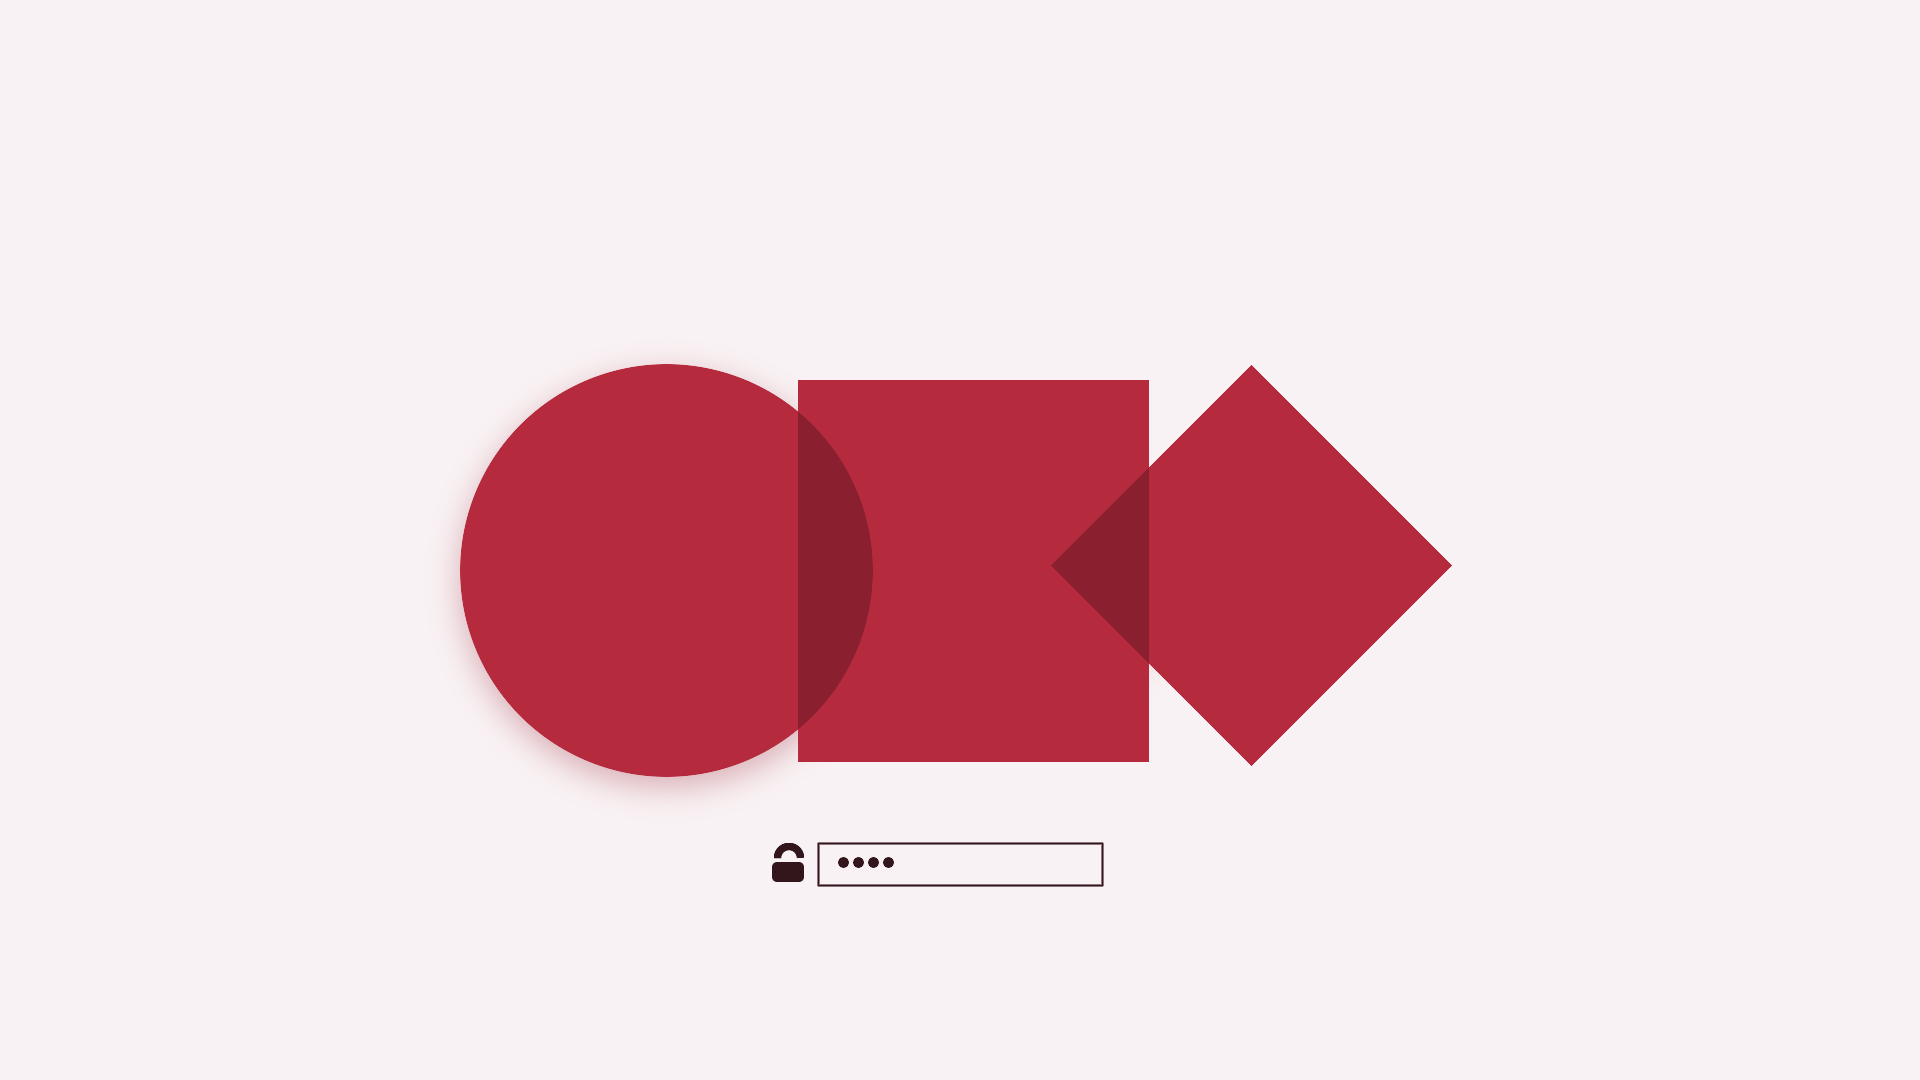
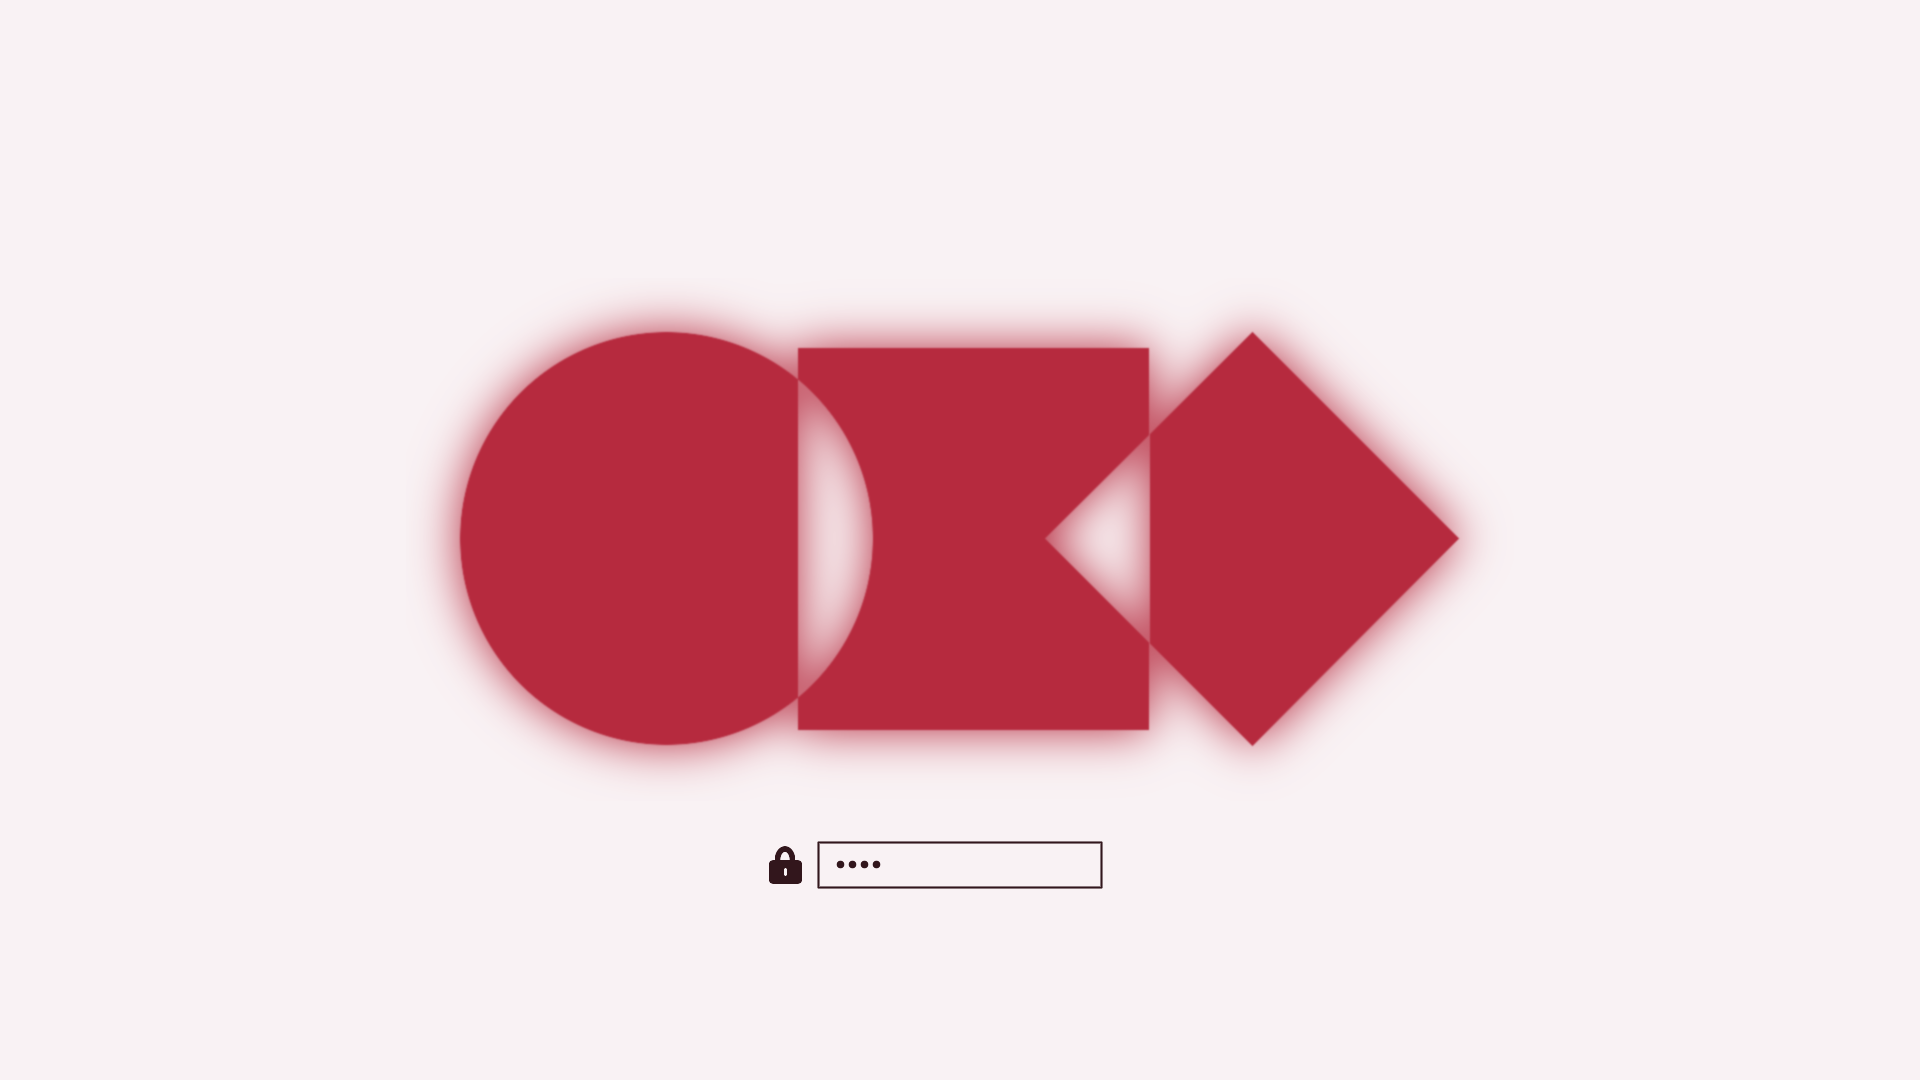
Lock art: rebuild as the exact geometric twin of the dark sibling
The light theme's mark was not the Lula logo. It drew three shapes that
overlapped, with the overlap zones painted a step deeper, so it read as
a different mark entirely. The dark sibling's construction is three forms
that interlock with gaps: a disc sliced flat on the right, a square
carrying a circular bite on its left and a chevron bite on its right,
and a rhombus sliced flat on the left.

scripts/make-unlock.sh now builds that construction from primitives, with
the coordinates measured off the dark artwork:

  disc     centre (260,260) r 206, clipped at x = 391
  square   rect 392..742 x 70..451, minus the disc and minus the rhombus
  rhombus  top (846,54) right (1052,260) bottom (846,467) left (639,260),
           clipped at x = 744

Two more errors came out of the comparison against the reference:

  * the mark sat 32px too low in the lock preview, crowding the password
    field - it now lands on the same pixels (art at x 460..1457,
    y 332..744 against the reference's 460..1458, 332..745);
  * the lock glyph was a different shape and the field was 3px shorter -
    the glyph is now an elliptical shackle reaching the body, the body is
    a 4px-radius rounded rectangle with a keyhole, and the field outline
    and its four dots land on the reference's pixels.

The dark sibling's red glow becomes a rose bloom of the same accent at
the same opacity profile, blurred on a padded canvas so it fades out
before the canvas edge instead of leaving a rectangular seam.
[…]

Changed region(s): [[0.2188, 0.275, 0.7812, 0.7333], [0.4062, 0.7639, 0.5625, 0.825]]

diff --git a/RESEARCH.md b/RESEARCH.md
@@ -113,12 +113,19 @@ Pin a deterministic background with
   2560×1440 PNG, 150–205 KB, generated procedurally with ImageMagick.
 - `unlock.png` (1108×523, transparent) and `preview-unlock.png`
   (1920×1080) are **this theme's own** key art, generated by
-  `scripts/make-unlock.sh`. It keeps the family monogram — circle, square
-  and diamond with the two interlock zones painted a step deeper — but in
-  the light palette: the accent `#B62A3E` on paper, with a soft warm
-  shadow instead of the dark sibling's red glow. Reusing the dark theme's
-  art byte-for-byte would put a `#FF5C74` glow on a white boot screen and
-  would not be derived from this theme's colors at all.
+  `scripts/make-unlock.sh`. It is the exact geometric twin of the dark
+  sibling's artwork: a disc sliced flat on the right, a square carrying a
+  circular bite on its left and a chevron bite on its right, and a rhombus
+  sliced flat on the left — three forms that interlock with gaps rather
+  than overlapping. What changes is the palette: the forms are painted in
+  the light accent `#B62A3E` on paper, and the dark sibling's red glow
+  becomes a rose bloom of the same accent at the same opacity profile
+  (a wide blur of the silhouette, `0x24`, on a padded canvas so it fades
+  out before the canvas edge). Measured against the dark sibling:
+  silhouette IoU **99.2%**, mean alpha difference **1.3/255**, and the lock
+  glyph and password field land on the same pixels
+  (`x 769..1102`, `y 841..888`; glyph `x 769..801`, `y 846..883`).
+  The construction is documented at the top of `scripts/make-unlock.sh`.
 - Icons `Yaru-red`, keyboard backlight `b62a3e` — the theme's own accent,
   which is also what the built-in `keyboard.rgb.tpl` (`{{ accent }}`)
   generates. The dark sibling keeps `e63950` because that *is* its accent.

diff --git a/README.md b/README.md
@@ -84,6 +84,17 @@ configs are regenerated with the current templates.
 
 To go back to the dark sibling: `omarchy theme set lula`.
 
+## Lock / boot art
+
+`unlock.png` and `preview-unlock.png` are generated from `colors.toml` by
+`scripts/make-unlock.sh`. The mark is the exact geometric twin of the dark
+sibling's: a disc sliced flat on the right, a square carrying a circular
+bite on its left and a chevron bite on its right, and a rhombus sliced
+flat on the left — three forms that interlock with gaps rather than
+overlapping. Only the palette differs: the forms are the light accent
+`#B62A3E` on paper, and the dark sibling's red glow becomes a rose bloom
+of the same opacity profile.
+
 ## Optional extras (machine-local)
 
 - **Plymouth boot screen**:
@@ -113,8 +124,7 @@ omarchy-lula-light-theme/
 ├── preview.png          # 1800×1012 theme-picker artwork
 ├── unlock.png           # transparent lock/boot art (own light-theme mark)
 ├── preview-unlock.png   # 1920×1080 lock/boot styles preview
-├── scripts/             # make-preview.sh, make-unlock.sh
-├── README.md
+├── scripts/             # make-preview.sh, make-unlock.sh├── README.md
 ├── RESEARCH.md          # light-mode conventions + measured contrast
 └── LICENSE              # MIT
 ```
